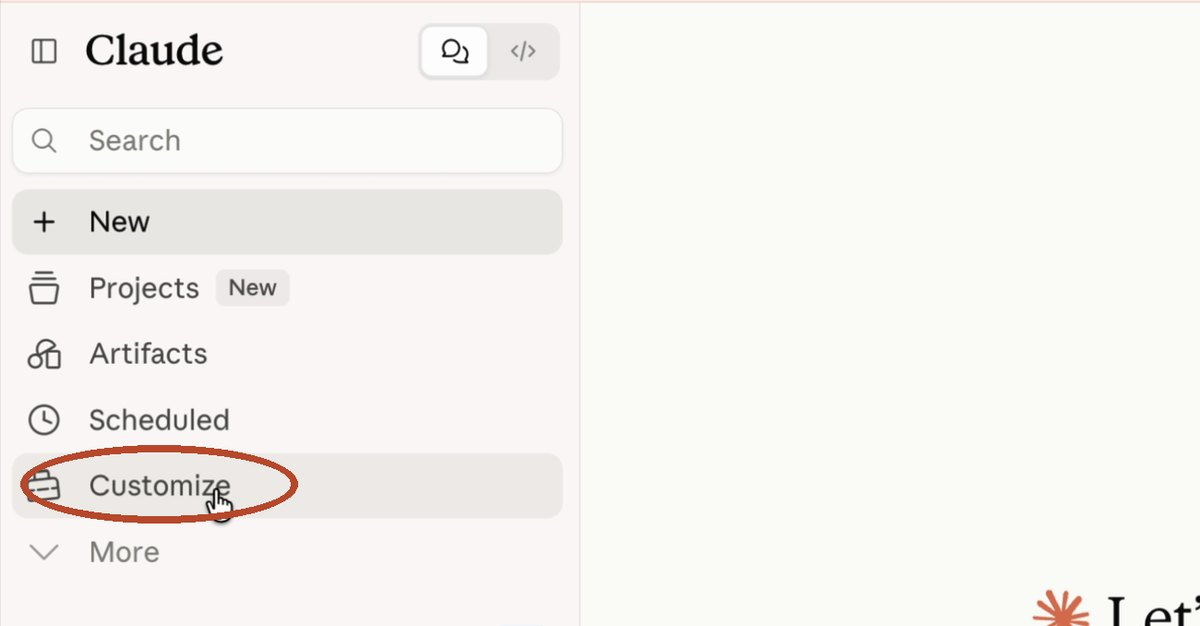
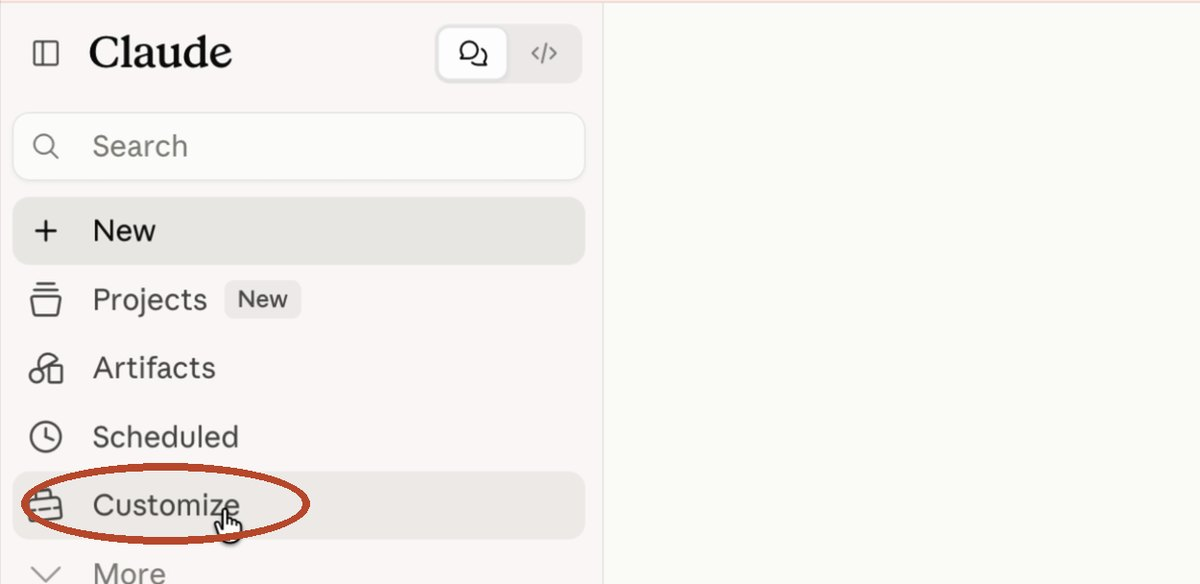
/connect: tutorial layout — five steps first with full-width stills, compact video after
The previous layout put a screen-tall video above the steps and rendered the
annotated stills as 400 px thumbnails in a side column, so the page read as
"URL + video" and the circled controls were illegible. Now: intro card →
five numbered steps, each with its still at content width → the recording
in a compact two-column block with the chapter list → ChatGPT → the rest.
Step-1 still re-cropped to drop the chat-pane fragment on its right.

diff --git a/src/app/connect/page.tsx b/src/app/connect/page.tsx
@@ -210,7 +210,8 @@ export default function ConnectPage() {
           <UrlBox label="MCP server URL" />
           <p className="text-muted text-sm mt-4">
             No API key. No sign-up. Works with Claude (all plans), ChatGPT (paid plans), Claude Code, Cursor,
-            Windsurf, VS Code and any other MCP client.
+            Windsurf, VS Code and any other MCP client. In Claude you don&apos;t even need the URL &mdash; the five
+            steps below start right under this box.
           </p>
           <nav aria-label="Jump to instructions" className="mt-5 flex flex-wrap gap-2">
             {[
@@ -218,6 +219,7 @@ export default function ConnectPage() {
               ['#chatgpt', 'ChatGPT'],
               ['#claude-code', 'Claude Code'],
               ['#other-clients', 'Cursor, VS Code & others'],
+              ['#video', 'Video'],
               ['#faq', 'FAQ'],
             ].map(([href, label]) => (
               <a
@@ -232,59 +234,18 @@ export default function ConnectPage() {
         </div>
       </section>
 
-      {/* ── Video ── */}
-      <section className="mb-16">
-        <h2 className="text-2xl font-semibold text-primary mb-2">Watch it happen (2 min 14 s)</h2>
-        <p className="text-secondary mb-4 max-w-2xl">
-          Adding the connector from the Claude directory, then asking Claude for alchemical emblems of the
-          ouroboros. It searches the library, returns the engravings, and links every one to the page of the
-          original book. Silent screen recording.
-        </p>
-        <video
-          controls
-          playsInline
-          preload="metadata"
-          poster={VIDEO.poster}
-          className="w-full rounded-xl border border-border-light shadow-sm bg-stone-900"
-          aria-label={VIDEO.name}
-        >
-          <source src={VIDEO.src} type="video/mp4" />
-          Your browser does not support embedded video.{' '}
-          <a href={VIDEO.src}>Download the recording</a>.
-        </video>
-        <ol className="mt-4 grid sm:grid-cols-2 lg:grid-cols-4 gap-3 text-sm text-secondary list-none">
-          <li className="bg-white rounded-xl border border-border-light p-4">
-            <span className="font-semibold text-primary">0:04 &mdash; Find it.</span> Customize page &rarr;{' '}
-            <strong>Connectors</strong> tab &rarr; magnifier &rarr; type &ldquo;source&rdquo;. (The sidebar is cropped out
-            of the recording; the stills below show it.)
-          </li>
-          <li className="bg-white rounded-xl border border-border-light p-4">
-            <span className="font-semibold text-primary">0:20 &mdash; Connect.</span> One click on the listing; the
-            tool list appears (search, read, quote, images).
-          </li>
-          <li className="bg-white rounded-xl border border-border-light p-4">
-            <span className="font-semibold text-primary">0:28 &mdash; Ask.</span> Alchemical emblems for a tattoo:
-            Claude returns a grid of engravings, 12 of 70 hits.
-          </li>
-          <li className="bg-white rounded-xl border border-border-light p-4">
-            <span className="font-semibold text-primary">0:52 &mdash; Open the original.</span> Click through to the
-            plate on sourcelibrary.org, with its book and page. From 1:48, the same thing again from scratch, this
-            time for the ouroboros.
-          </li>
-        </ol>
-      </section>
-
       {/* ── Claude ── */}
       <section className="mb-16">
         <ClientHeading id="claude" title="Claude" tag="claude.ai, Claude Desktop and the mobile apps · every plan" />
         <p className="text-secondary mb-8 max-w-2xl">
           Source Library is listed in Claude&apos;s connector directory, so there is nothing to type except the word
-          &ldquo;source&rdquo;. Two of the five clicks are easy to miss, so they are circled.
+          &ldquo;source&rdquo;. Five clicks; the two that are easy to miss are circled in red. Every picture below is a
+          frame from the recording further down.
         </p>
 
-        <div className="space-y-10">
-          <div className="grid md:grid-cols-[1fr_minmax(0,420px)] gap-6 items-start">
-            <Step n={1} title="Click Customize in the left sidebar">
+        <div className="space-y-14">
+          <div className="space-y-4">
+            <Step n={1} title="Open claude.ai and click Customize in the left sidebar">
               <p>
                 It sits below <strong>Scheduled</strong>, above <strong>More</strong>. Do this once on the web; the
                 connector follows your account into the desktop and mobile apps.
@@ -294,12 +255,13 @@ export default function ConnectPage() {
               src="/connect/step-1-customize.jpg"
               alt="The Claude sidebar with the Customize item circled"
               width={1200}
-              height={626}
-              className="rounded-xl border border-border-light shadow-sm"
+              height={584}
+              className="w-full h-auto rounded-xl border border-border-light shadow-sm"
+              sizes="(min-width: 1024px) 900px, 100vw"
             />
           </div>
 
-          <div className="grid md:grid-cols-[1fr_minmax(0,420px)] gap-6 items-start">
+          <div className="space-y-4">
             <Step n={2} title="Click the Connectors tab">
               <p>
                 The Customize page opens on <strong>Skills</strong>. Connectors is the second tab, in grey, next to it.
@@ -310,11 +272,12 @@ export default function ConnectPage() {
               alt="The Customize page with the Connectors tab circled"
               width={1200}
               height={584}
-              className="rounded-xl border border-border-light shadow-sm"
+              className="w-full h-auto rounded-xl border border-border-light shadow-sm"
+              sizes="(min-width: 1024px) 900px, 100vw"
             />
           </div>
 
-          <div className="grid md:grid-cols-[1fr_minmax(0,420px)] gap-6 items-start">
+          <div className="space-y-4">
             <Step n={3} title="Click the magnifying glass and type “source”">
               <p>
                 The search box is hidden behind the small <strong>magnifier icon</strong> on the right, next to the
@@ -327,11 +290,12 @@ export default function ConnectPage() {
               alt="The Connectors search box with 'source' typed and the Source Library row circled"
               width={1200}
               height={766}
-              className="rounded-xl border border-border-light shadow-sm"
+              className="w-full h-auto rounded-xl border border-border-light shadow-sm"
+              sizes="(min-width: 1024px) 900px, 100vw"
             />
           </div>
 
-          <div className="grid md:grid-cols-[1fr_minmax(0,420px)] gap-6 items-start">
+          <div className="space-y-4">
             <Step n={4} title="Click Connect to Claude">
               <p>
                 The black button at the top right of the listing. A moment later the tool list appears below it
@@ -350,11 +314,12 @@ export default function ConnectPage() {
               alt="The Source Library listing in the Claude directory with the Connect to Claude button circled"
               width={1200}
               height={584}
-              className="rounded-xl border border-border-light shadow-sm"
+              className="w-full h-auto rounded-xl border border-border-light shadow-sm"
+              sizes="(min-width: 1024px) 900px, 100vw"
             />
           </div>
 
-          <div className="grid md:grid-cols-[1fr_minmax(0,420px)] gap-6 items-start">
+          <div className="space-y-4">
             <Step n={5} title="Ask">
               <p>
                 Start a new conversation and ask about any historical text or image. Claude searches, reads and cites
@@ -368,7 +333,8 @@ export default function ConnectPage() {
               alt="Claude showing a grid of alchemical engravings returned by the Source Library connector"
               width={1200}
               height={1100}
-              className="rounded-xl border border-border-light shadow-sm"
+              className="w-full h-auto rounded-xl border border-border-light shadow-sm"
+              sizes="(min-width: 1024px) 900px, 100vw"
             />
           </div>
         </div>
@@ -406,6 +372,49 @@ export default function ConnectPage() {
             </div>
           </div>
         </details>
+      </section>
+
+      {/* ── Video ── */}
+      <section className="mb-16">
+        <h2 id="video" className="text-2xl font-semibold text-primary mb-2 scroll-mt-24">The same five steps on video (2 min 14 s)</h2>
+        <p className="text-secondary mb-6 max-w-2xl">
+          Silent screen recording: adding the connector from the directory, then asking Claude for alchemical
+          emblems and opening one on sourcelibrary.org.
+        </p>
+        <div className="grid md:grid-cols-[minmax(0,400px)_1fr] gap-8 items-start">
+          <video
+            controls
+            playsInline
+            preload="metadata"
+            poster={VIDEO.poster}
+            className="w-full rounded-xl border border-border-light shadow-sm bg-stone-900"
+            aria-label={VIDEO.name}
+          >
+            <source src={VIDEO.src} type="video/mp4" />
+            Your browser does not support embedded video.{' '}
+            <a href={VIDEO.src}>Download the recording</a>.
+          </video>
+          <ol className="space-y-3 text-sm text-secondary list-none">
+            <li className="bg-white rounded-xl border border-border-light p-4">
+              <span className="font-semibold text-primary">0:04 &mdash; Find it.</span> Customize page &rarr;{' '}
+              <strong>Connectors</strong> tab &rarr; magnifier &rarr; type &ldquo;source&rdquo;. (The sidebar is cropped
+              out of the recording; step 1 above shows it.)
+            </li>
+            <li className="bg-white rounded-xl border border-border-light p-4">
+              <span className="font-semibold text-primary">0:20 &mdash; Connect.</span> One click on the listing; the
+              tool list appears (search, read, quote, images).
+            </li>
+            <li className="bg-white rounded-xl border border-border-light p-4">
+              <span className="font-semibold text-primary">0:28 &mdash; Ask.</span> Alchemical emblems for a tattoo:
+              Claude returns a grid of engravings, 12 of 70 hits.
+            </li>
+            <li className="bg-white rounded-xl border border-border-light p-4">
+              <span className="font-semibold text-primary">0:52 &mdash; Open the original.</span> Click through to the
+              plate on sourcelibrary.org, with its book and page. From 1:48, the same thing again from scratch, this
+              time for the ouroboros.
+            </li>
+          </ol>
+        </div>
       </section>
 
       {/* ── ChatGPT ── */}
